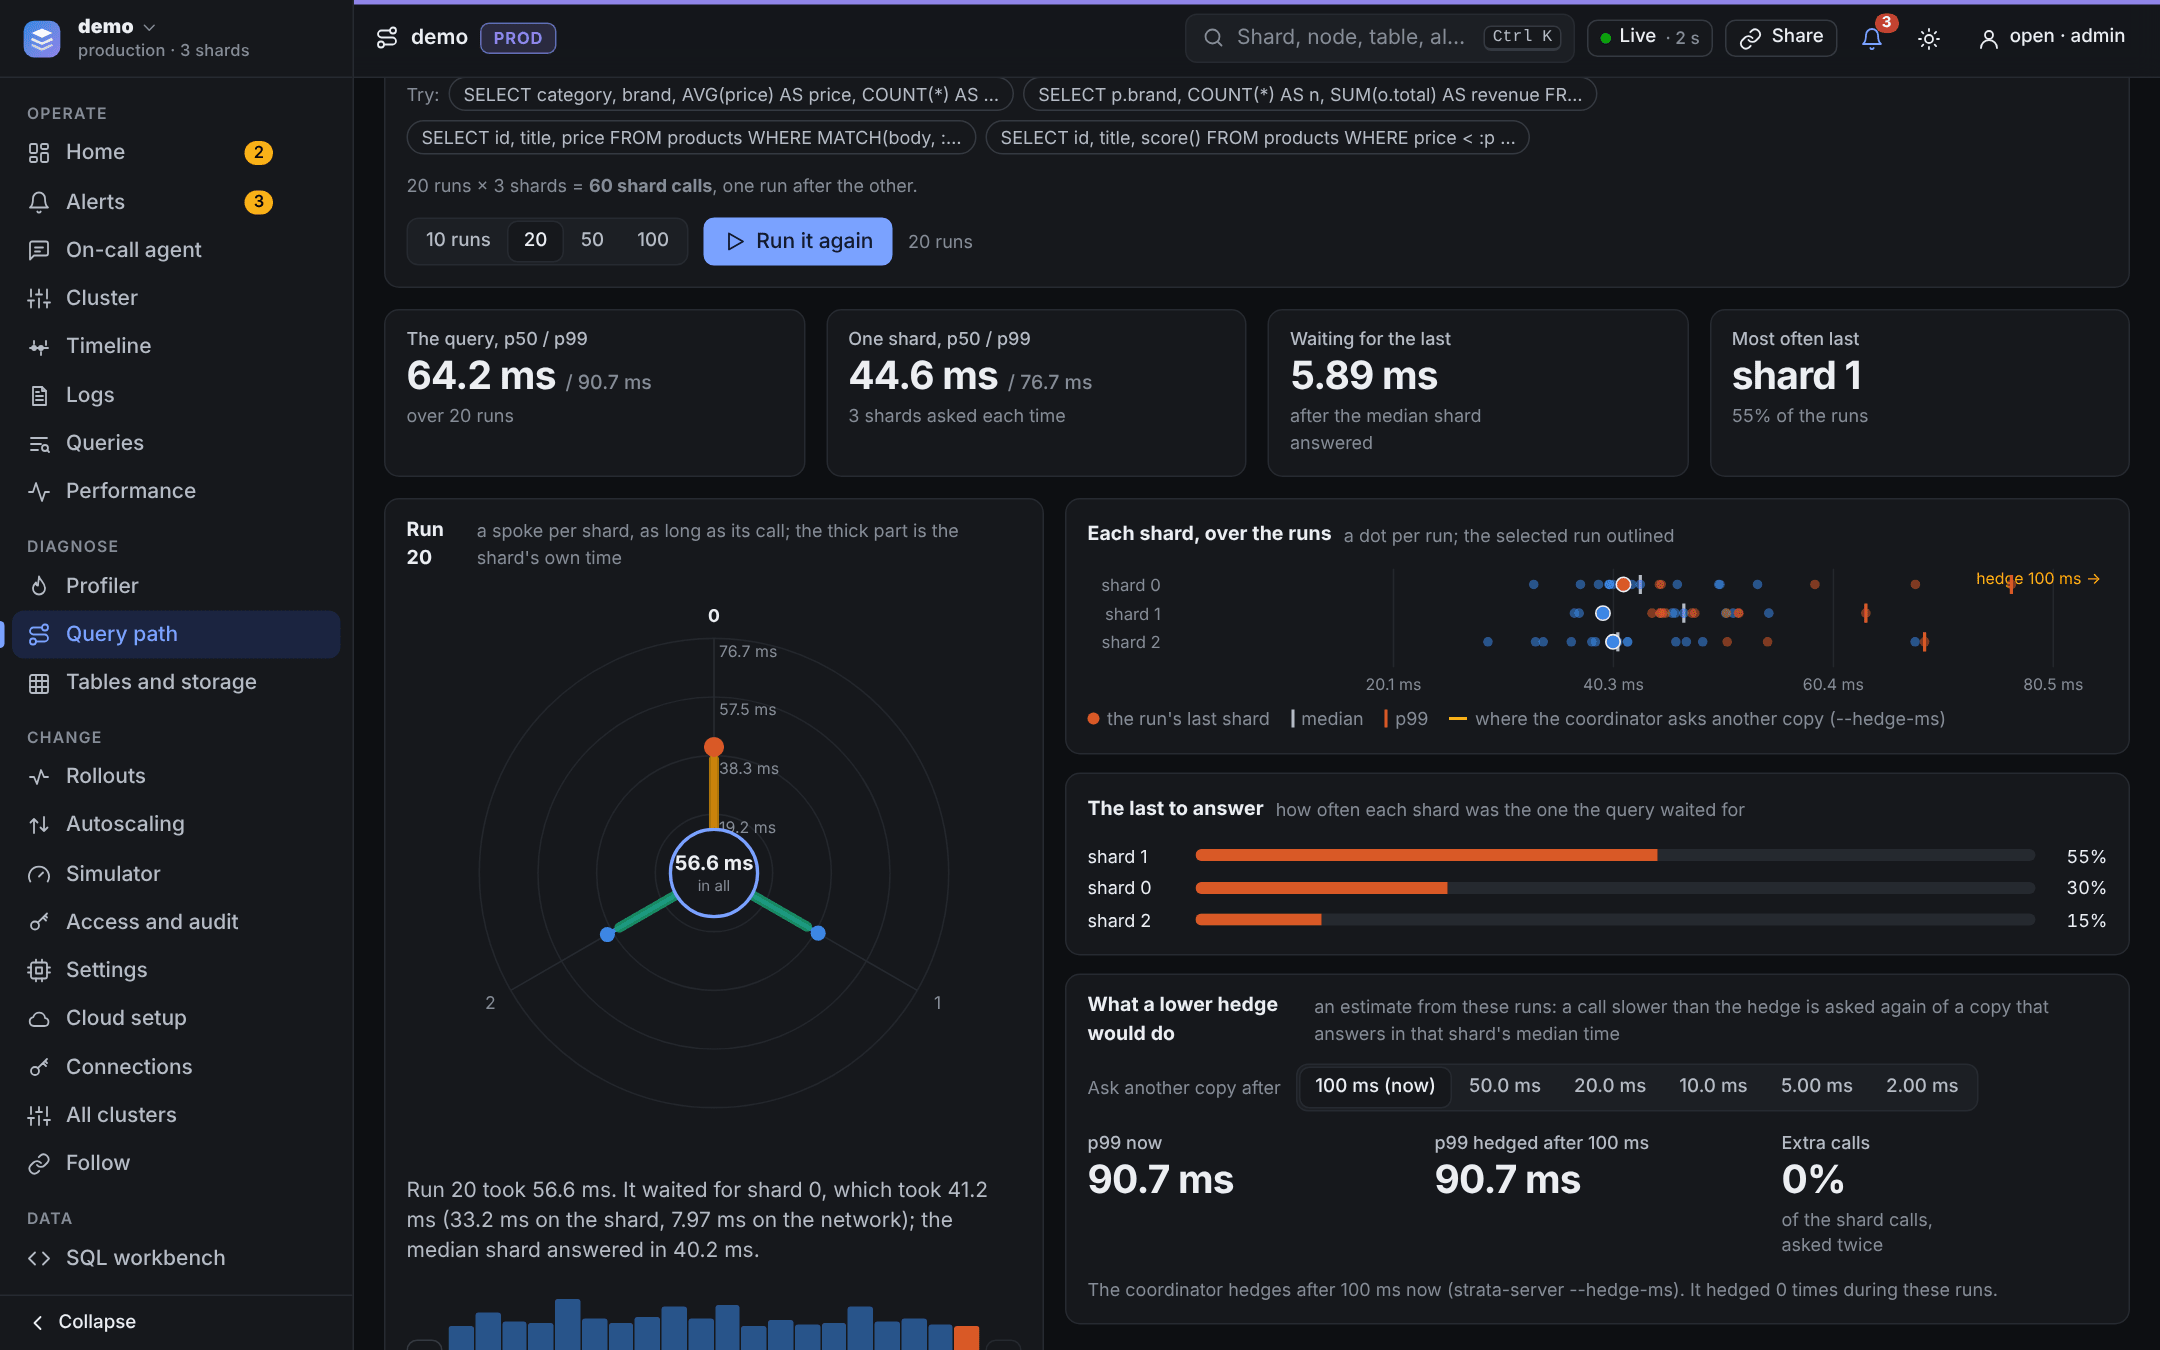
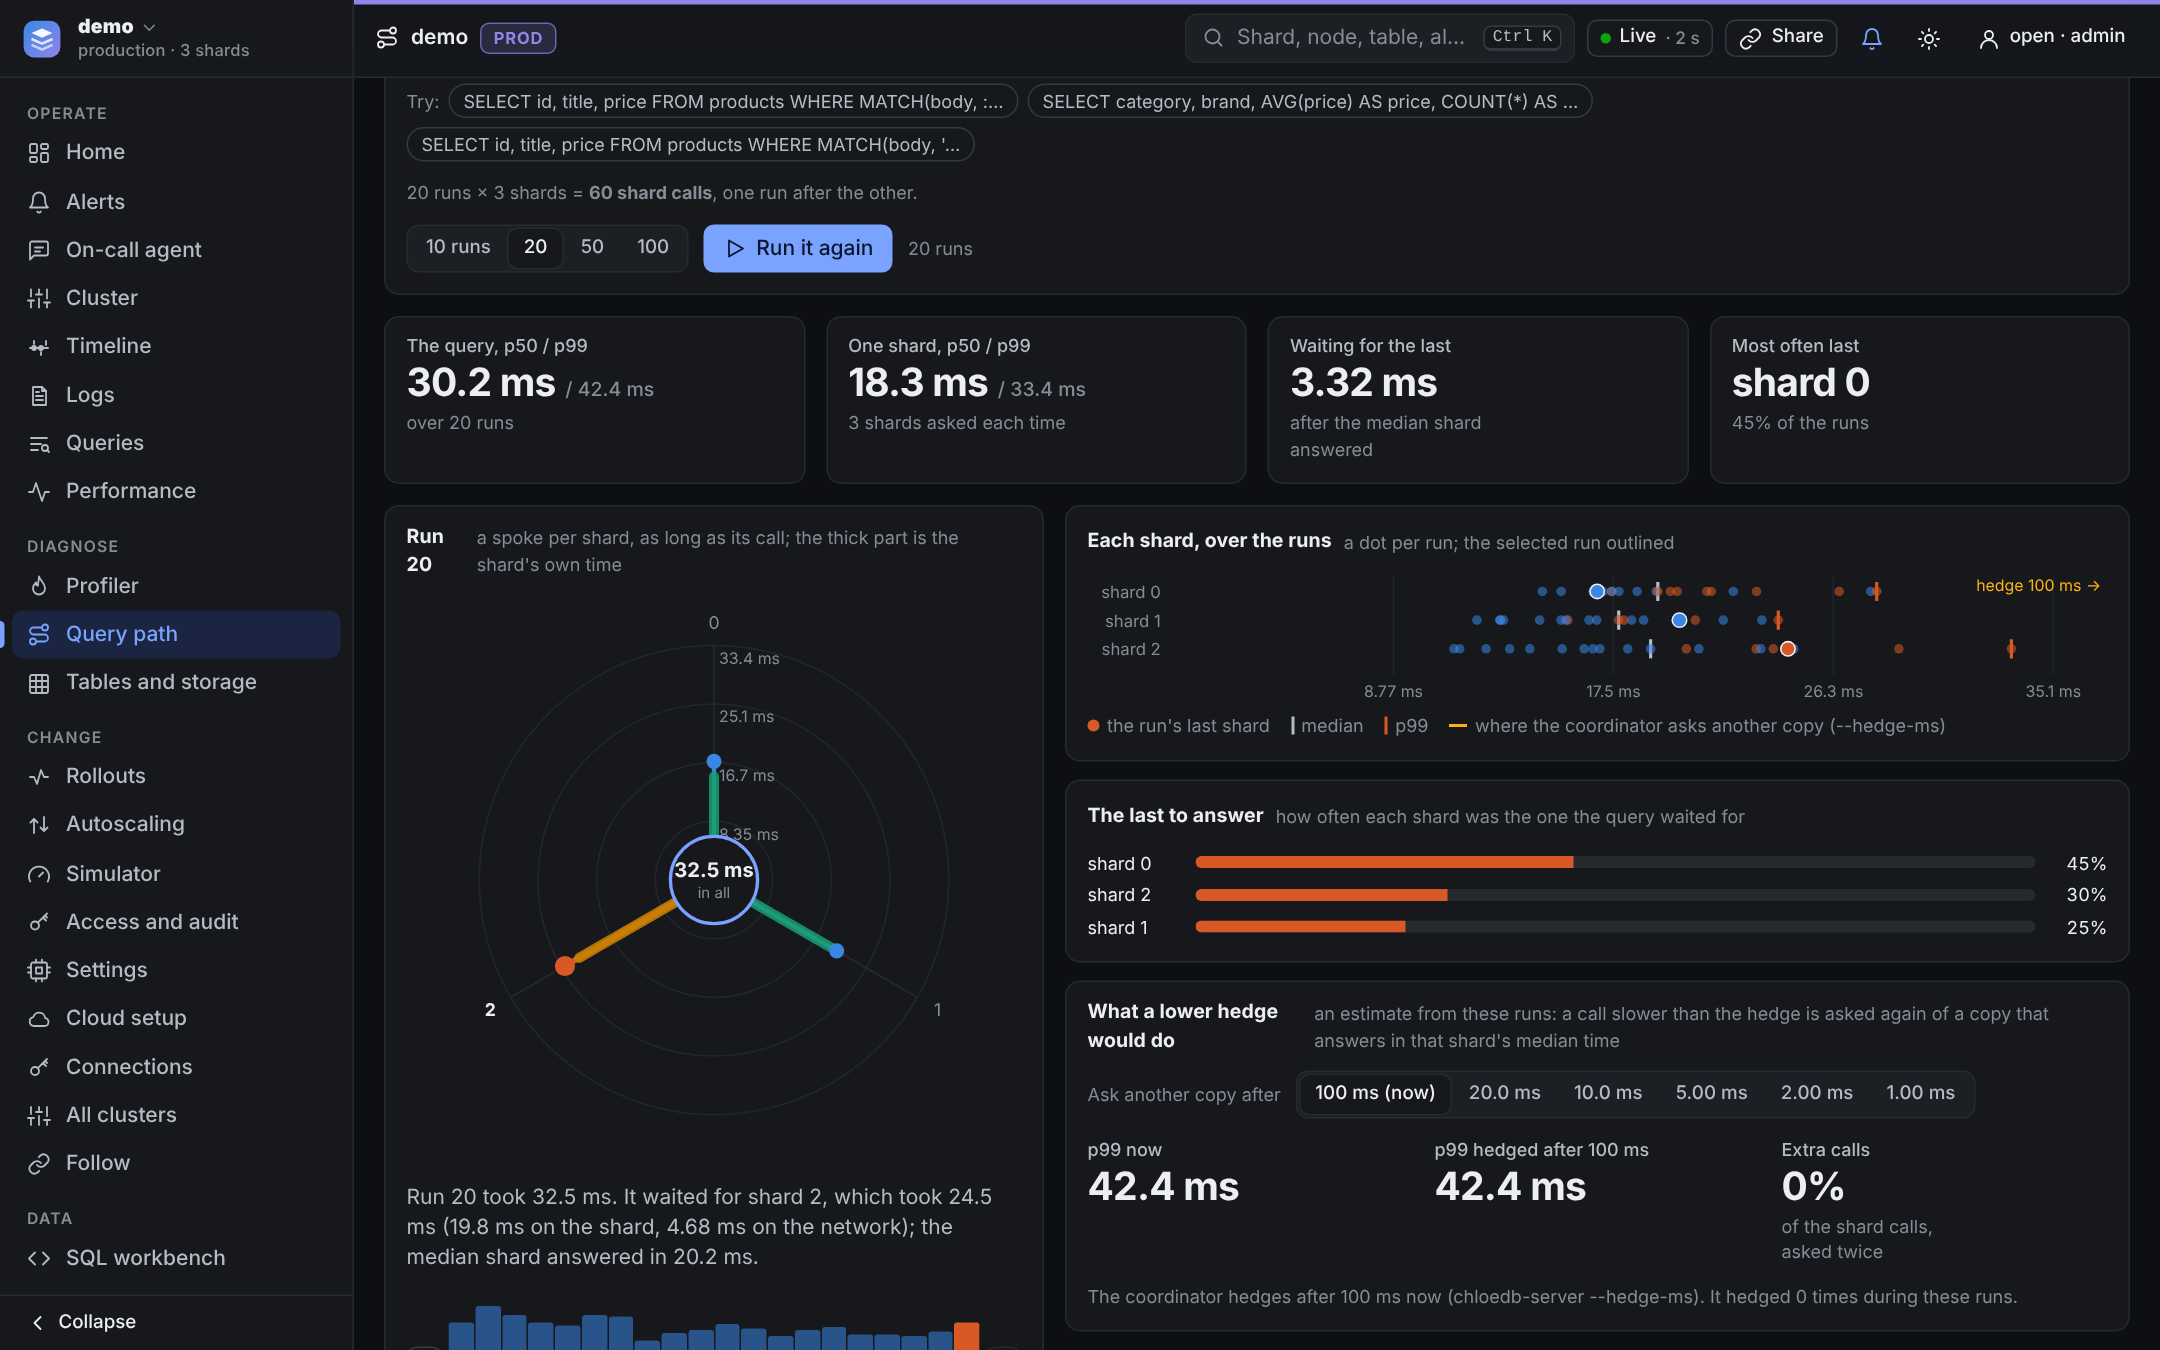
Site: retake the three command center screenshots that showed the old name
The CPU profile (a thread named strata-heap), the query path (strata-server
--hedge-ms) and Rollouts (the cargo command and "Strata's operator") are
retaken on a local demo cluster (3 shards x 3 copies, dark, 1440x900 at
1.5x, quantized as the others). The other 18 show neither name; the
Simulator's table keeps its name, strata_sim. The query path's alt text
says "a query": the new shot runs an aggregation with a LIKE filter.

Claude-Session: https://claude.ai/code/session_015HfDyQ92qun1c96zM9QH5y

diff --git a/docs/site/command-center.html b/docs/site/command-center.html
@@ -80,7 +80,7 @@
       </div>
       <div data-panel="profile"><figure class="browser"><div class="bar"><i></i><i></i><i></i><span>localhost:7700/#/profile</span></div><img class="zoomable" src="../assets/img/site-cc-profiler.png" alt="Profiler: a hybrid search's time, CPU and rows over 3 shards, and its steps as a flame chart with each shard's call" loading="lazy"></figure><p>Every step of a query as a flame chart, with each shard's call.</p></div>
       <div data-panel="cpu"><figure class="browser"><div class="bar"><i></i><i></i><i></i><span>localhost:7700/#/profile</span></div><img class="zoomable" src="../assets/img/site-cc-cpu.png" alt="A CPU profile: a search run in a loop by four callers for 5 s on one shard, its runs and median, and the flame graph of every thread" loading="lazy"></figure><p>Sample every thread for a few seconds; memory is profiled the same way.</p></div>
-      <div data-panel="qpath"><figure class="browser"><div class="bar"><i></i><i></i><i></i><span>localhost:7700/#/querypath</span></div><img class="zoomable" src="../assets/img/site-cc-querypath.png" alt="Query path: twenty runs of a search over three shards, each shard's times and the last to answer" loading="lazy"></figure><p>Run a search 10 to 100 times and see which shard it waited for.</p></div>
+      <div data-panel="qpath"><figure class="browser"><div class="bar"><i></i><i></i><i></i><span>localhost:7700/#/querypath</span></div><img class="zoomable" src="../assets/img/site-cc-querypath.png" alt="Query path: twenty runs of a query over three shards, each shard's times and the last to answer" loading="lazy"></figure><p>Run a search 10 to 100 times and see which shard it waited for.</p></div>
       <div data-panel="tables"><figure class="browser"><div class="bar"><i></i><i></i><i></i><span>localhost:7700/#/tables</span></div><img class="zoomable" src="../assets/img/site-cc-tables.png" alt="Tables and storage: six tables with their size, writes and reads a minute, skew, hot shards and stale copies" loading="lazy"></figure><p>Which table grows, which shard is skewed or hot, which copy is stale.</p></div>
     </div>
   </div></section>
